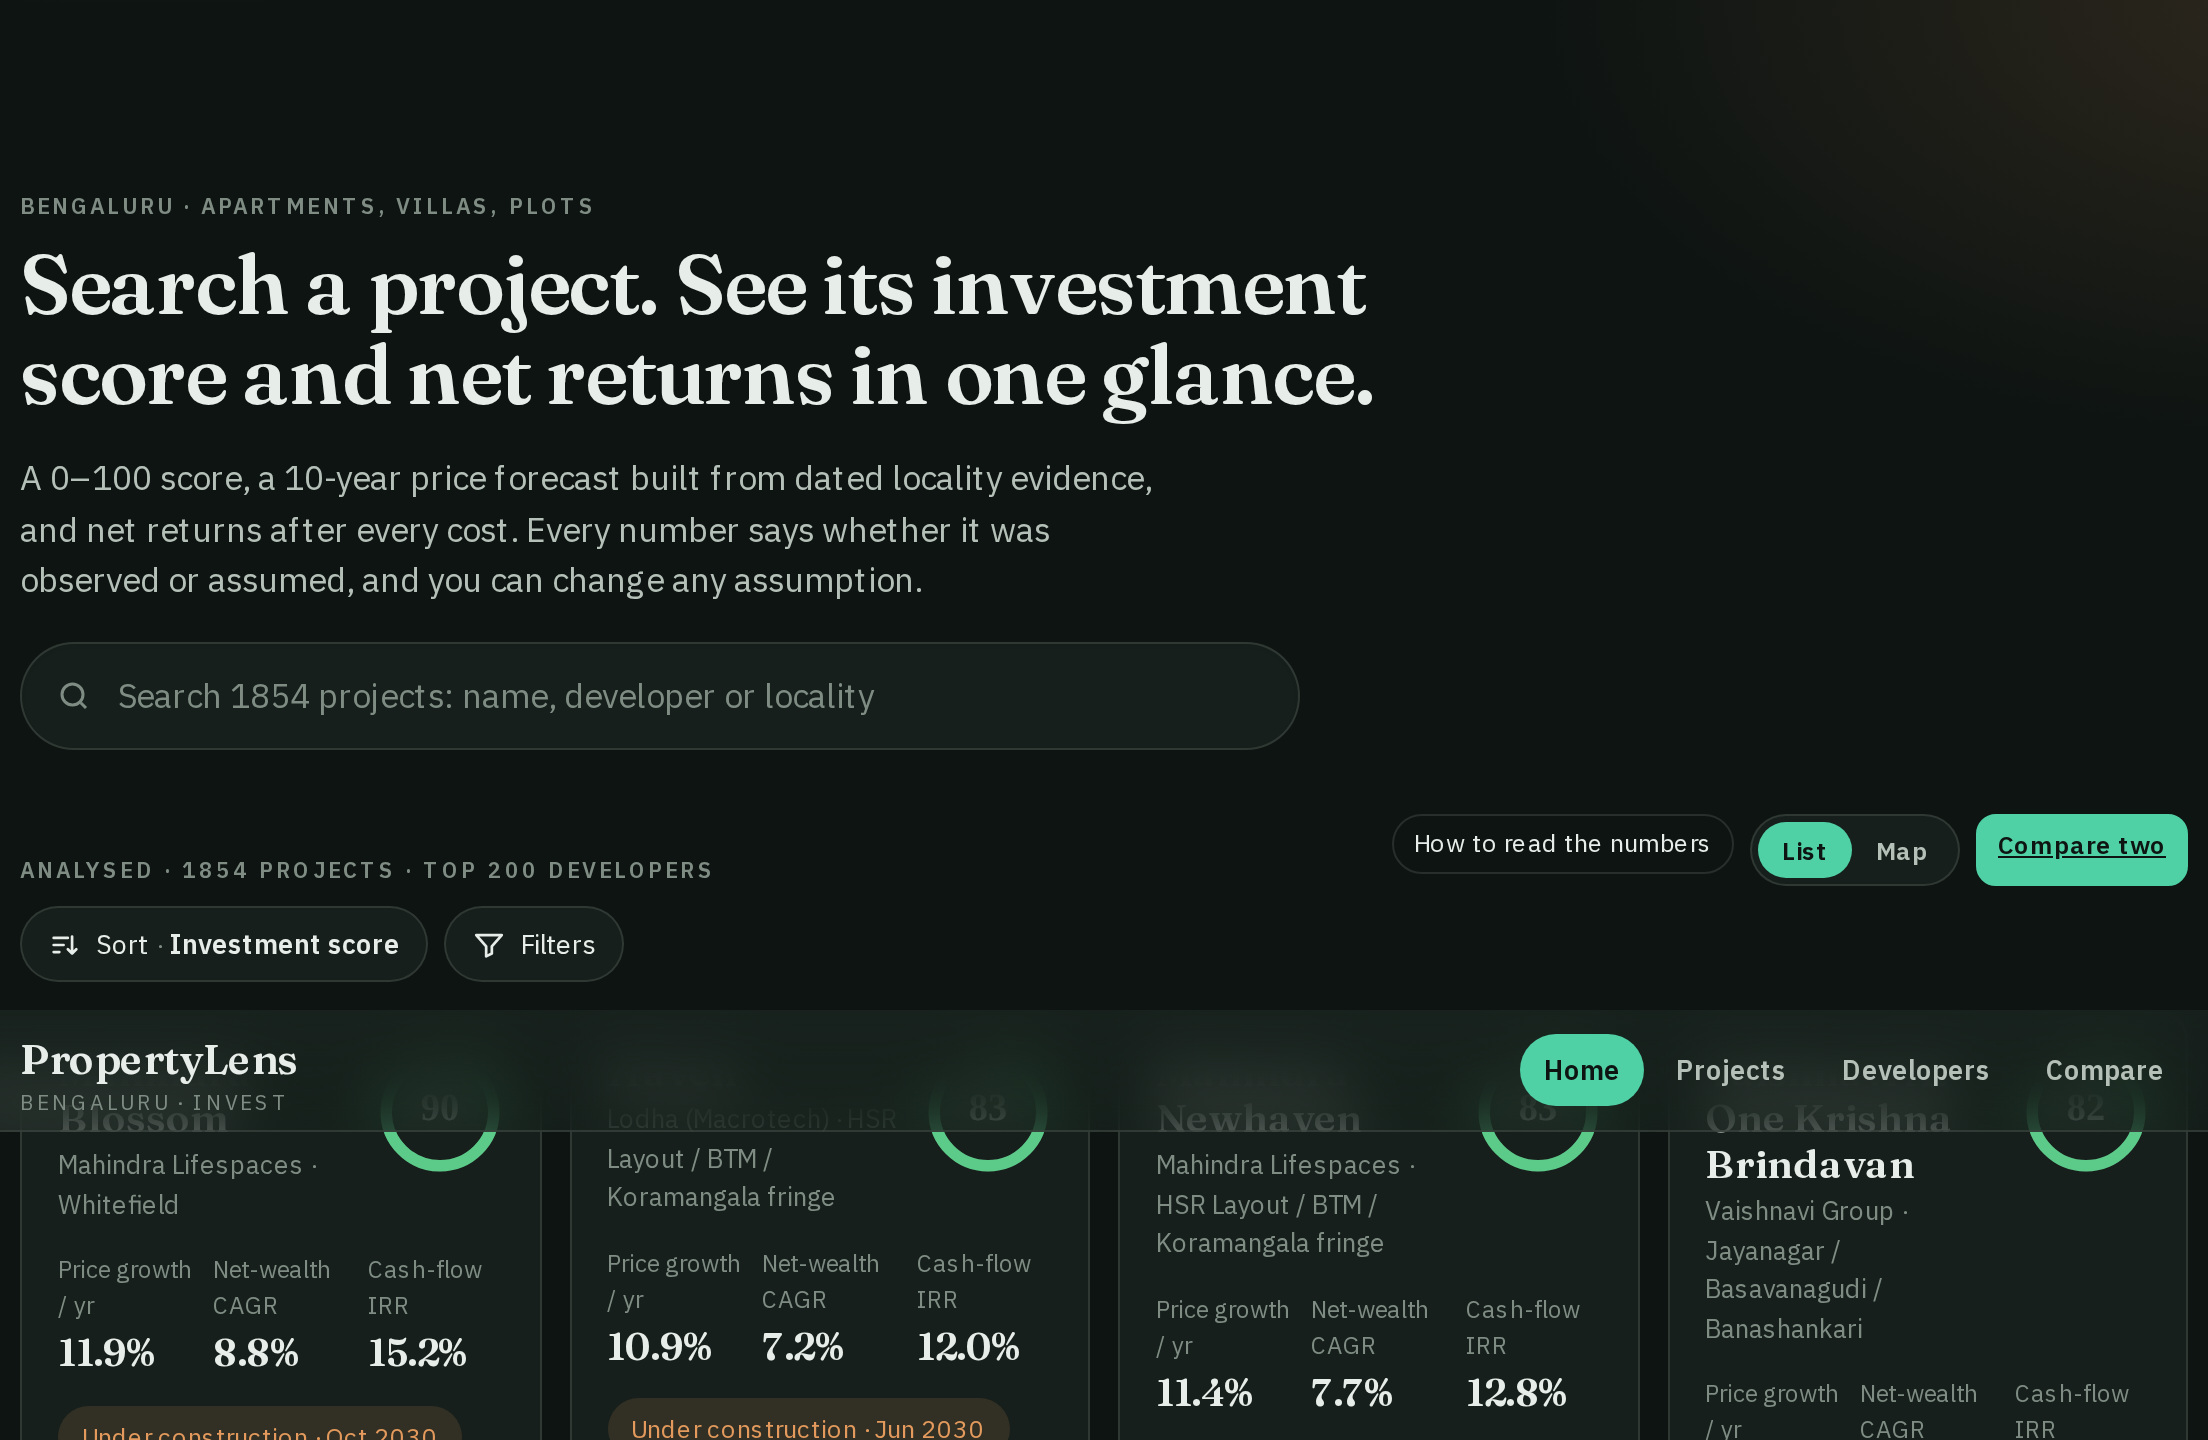
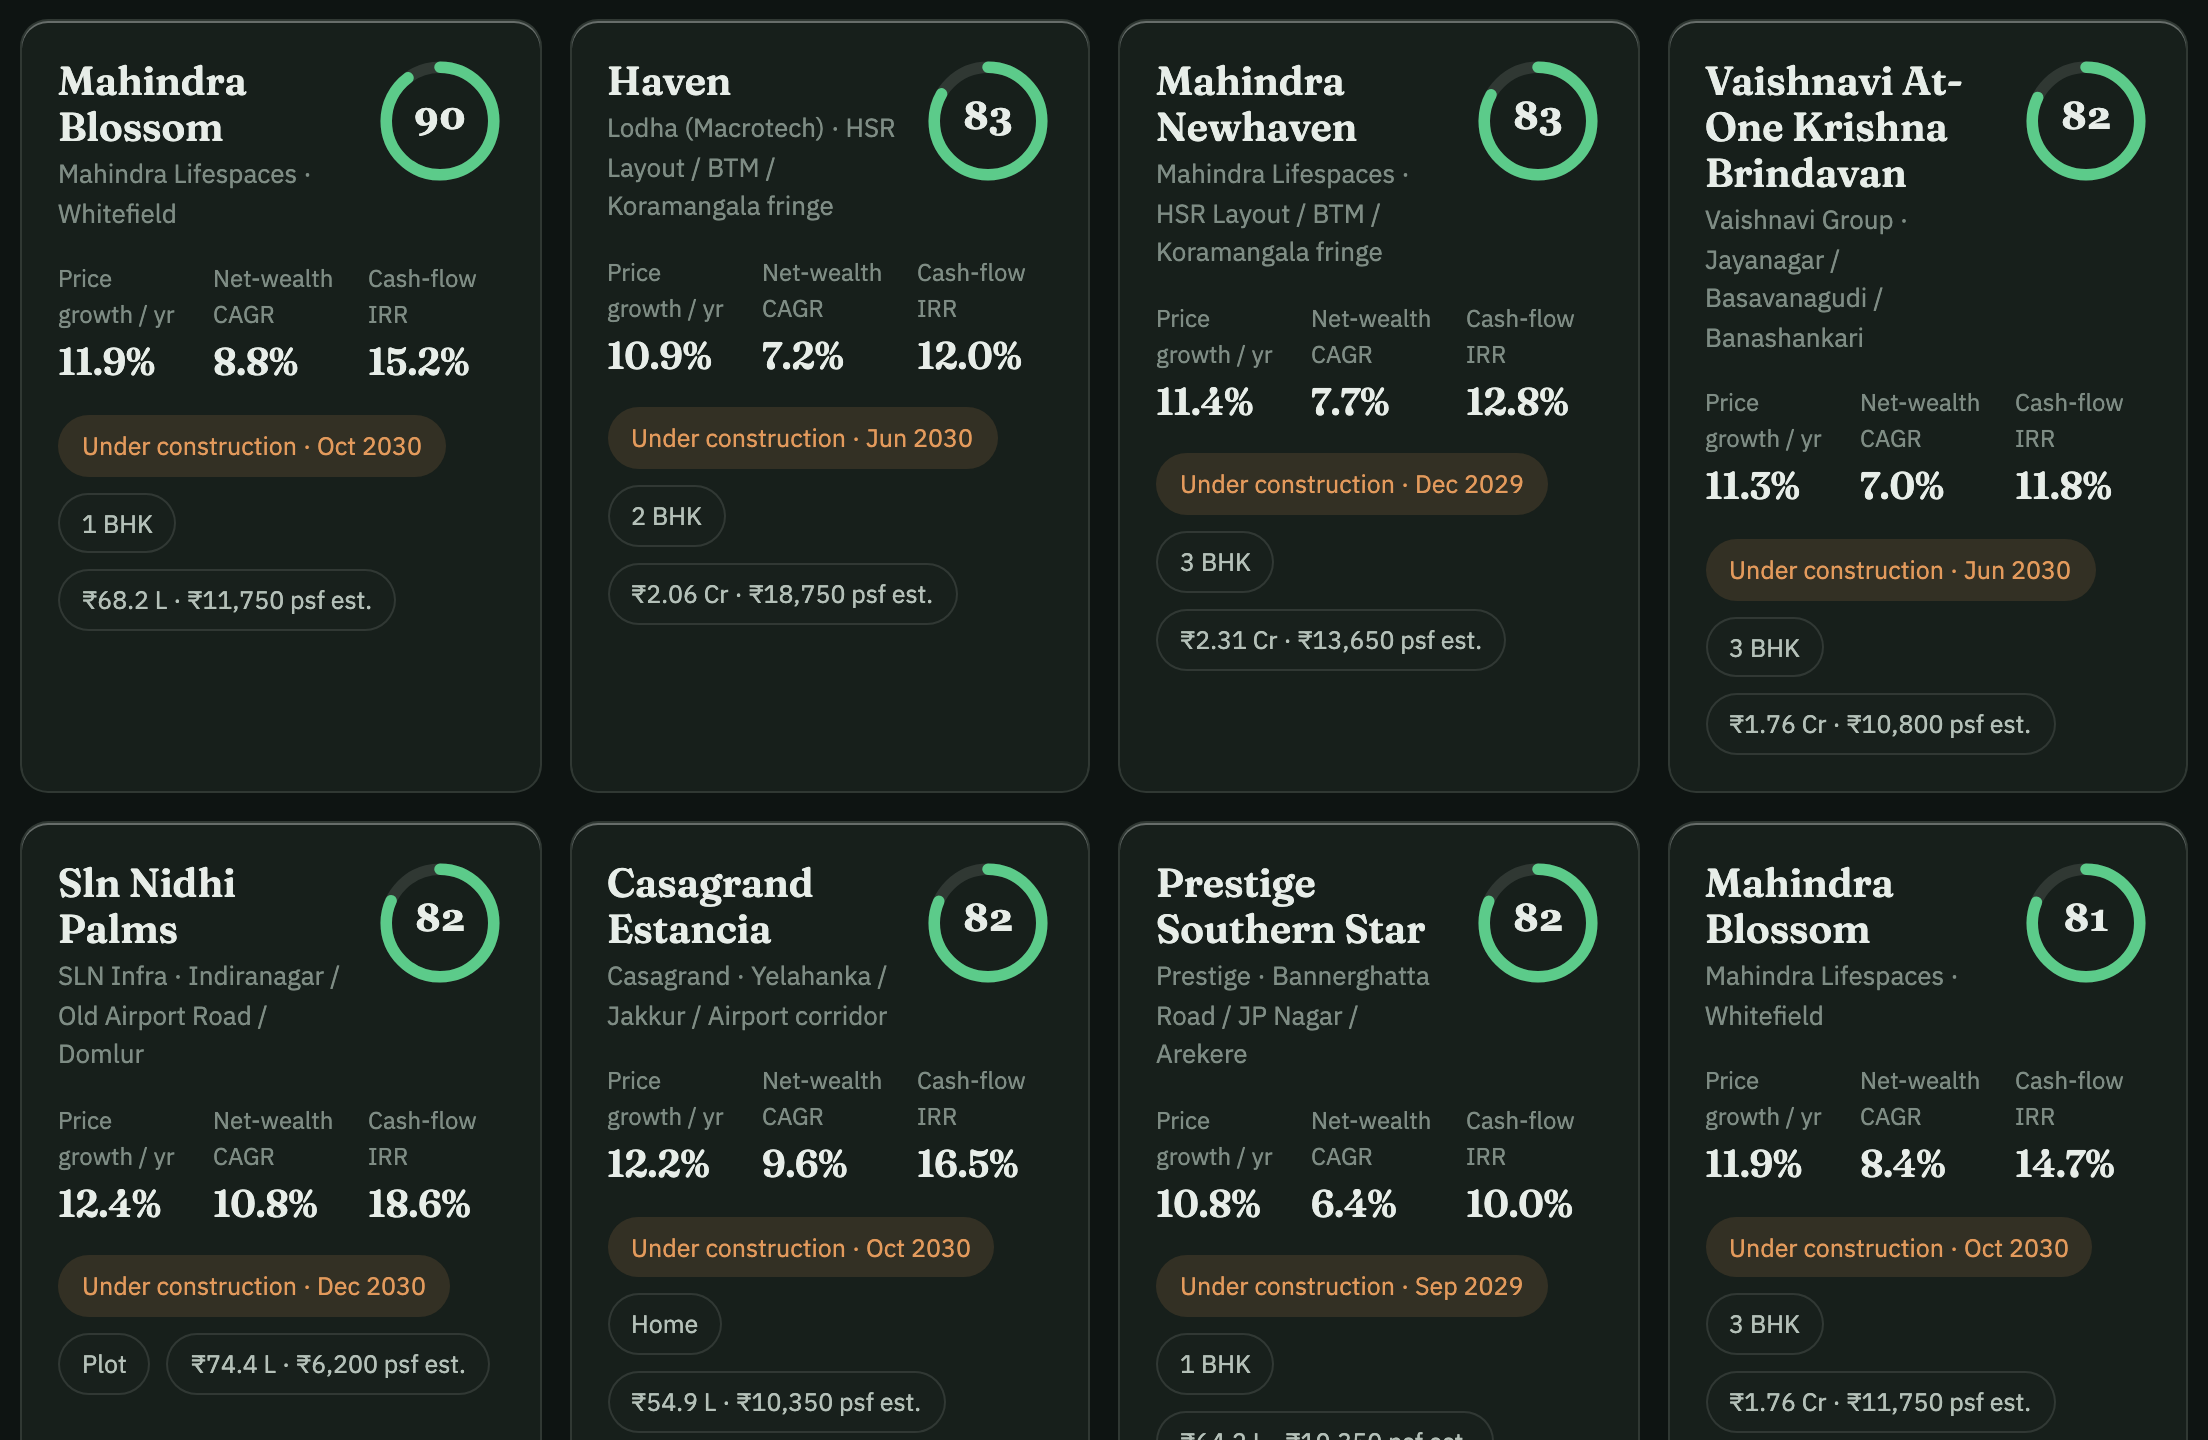
Fix scout screenshots: document-space crop, unpin sticky header, wait for map tiles
The crop used viewport-relative boundingBox() coordinates with a fullPage
screenshot, so every below-the-fold shot captured the wrong region with the
sticky header painted across it. Measure in document coordinates, render
header.top/.projhead static during capture, and wait for Google Maps tiles
before shooting the map. Regenerates the five images for the current queue.

diff --git a/scripts/shoot.ts b/scripts/shoot.ts
@@ -51,8 +51,17 @@ async function shoot(page: Page, lead: ScoutLead, spec: ShotSpec, out: string): 
   const target = targetFor(spec, lead.landing);
   await page.goto(target, { waitUntil: "networkidle", timeout: 60_000 });
   // The share row and bottom nav sit over the content on every page.
-  await page.addStyleTag({ content: `.sharebar,.bottomnav,.tip{display:none!important}` }).catch(() => {});
-  if (spec.kind === "map") await page.waitForTimeout(6000); // tiles and clusters
+  // The site header and the project bar are sticky: left alone they get painted
+  // across the middle of any crop below the fold. Pin them to the top instead.
+  await page.addStyleTag({ content: `.sharebar,.bottomnav,.tip{display:none!important} header.top,.projhead{position:static!important}` }).catch(() => {});
+  if (spec.kind === "map") {
+    // Google Maps: wait until the base tiles have actually drawn, not just the clusters.
+    await page.waitForFunction(() => {
+      const imgs = [...document.querySelectorAll<HTMLImageElement>("#gmap img")].filter((i) => i.naturalWidth >= 128);
+      return imgs.length >= 4 && imgs.every((i) => i.complete);
+    }, null, { timeout: 20_000 }).catch(() => note("map tiles did not finish loading"));
+    await page.waitForTimeout(2000);
+  }
   else if (spec.kind === "compare" || spec.kind === "list") await page.waitForTimeout(3500); // client data
   else await page.waitForTimeout(1200);
   if (spec.kind === "list") {
@@ -62,7 +71,8 @@ async function shoot(page: Page, lead: ScoutLead, spec: ShotSpec, out: string): 
   const el = page.locator(f.sel).first();
   await el.scrollIntoViewIfNeeded().catch(() => {});
   await page.waitForTimeout(400);
-  const box = await el.boundingBox().catch(() => null);
+  // fullPage clips are in document coordinates; boundingBox() is viewport-relative.
+  const box = await el.evaluate((n) => { const r = n.getBoundingClientRect(); return { x: r.left + scrollX, y: r.top + scrollY, width: r.width, height: r.height }; }).catch(() => null);
   if (box && box.width > 200) {
     await page.screenshot({
       path: out,
